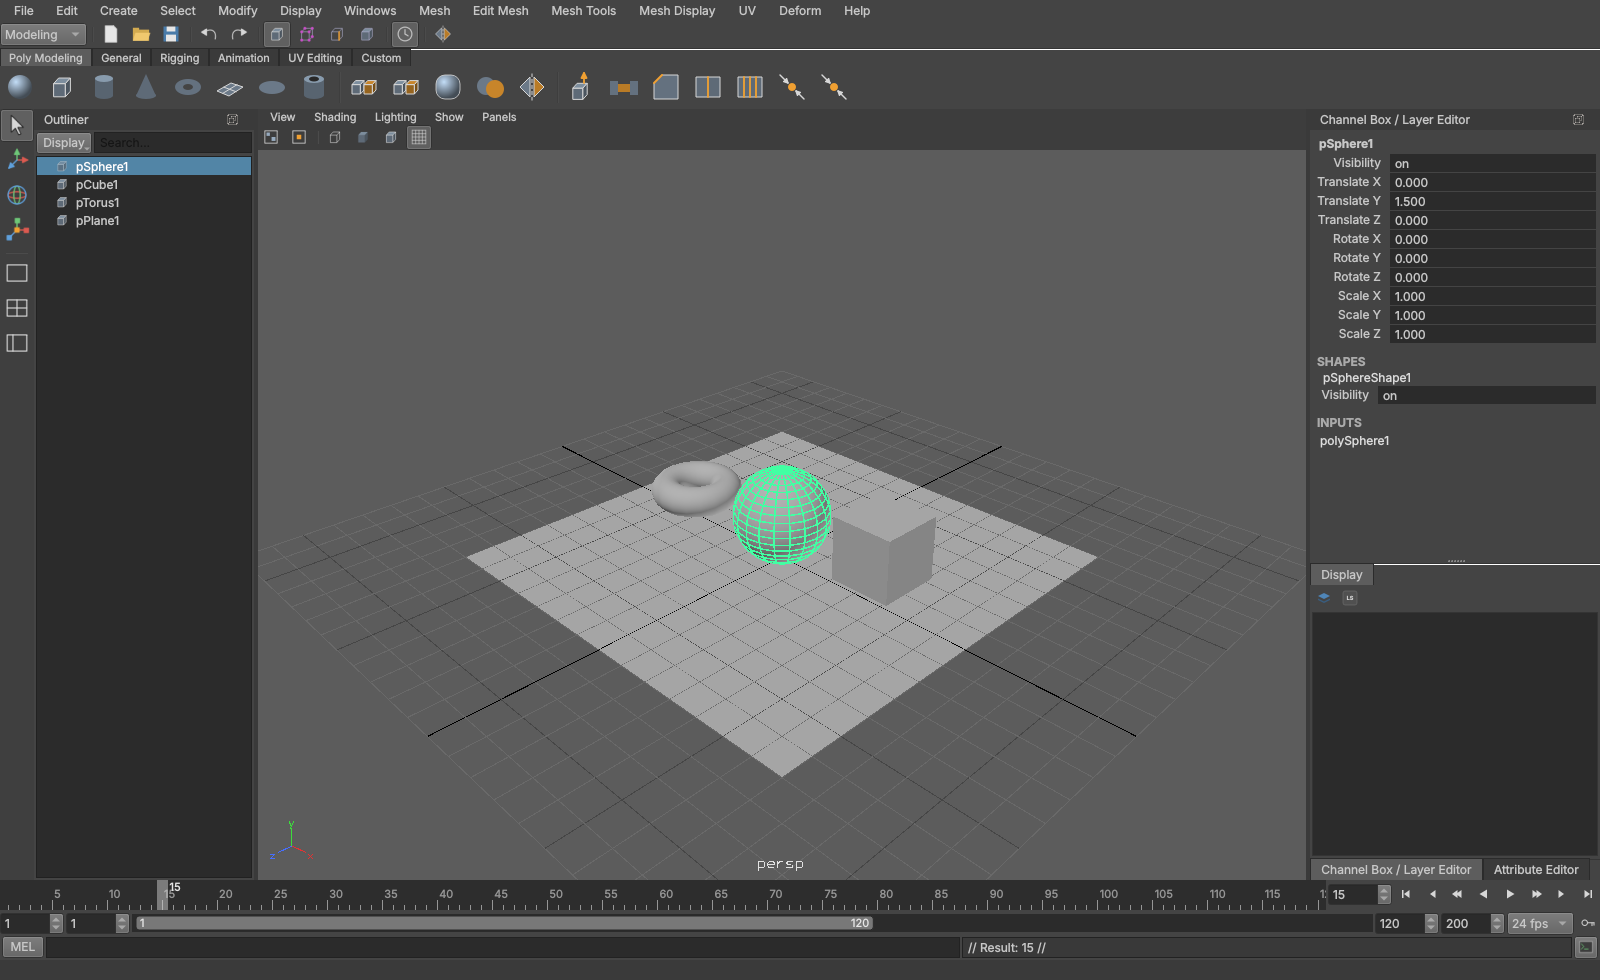
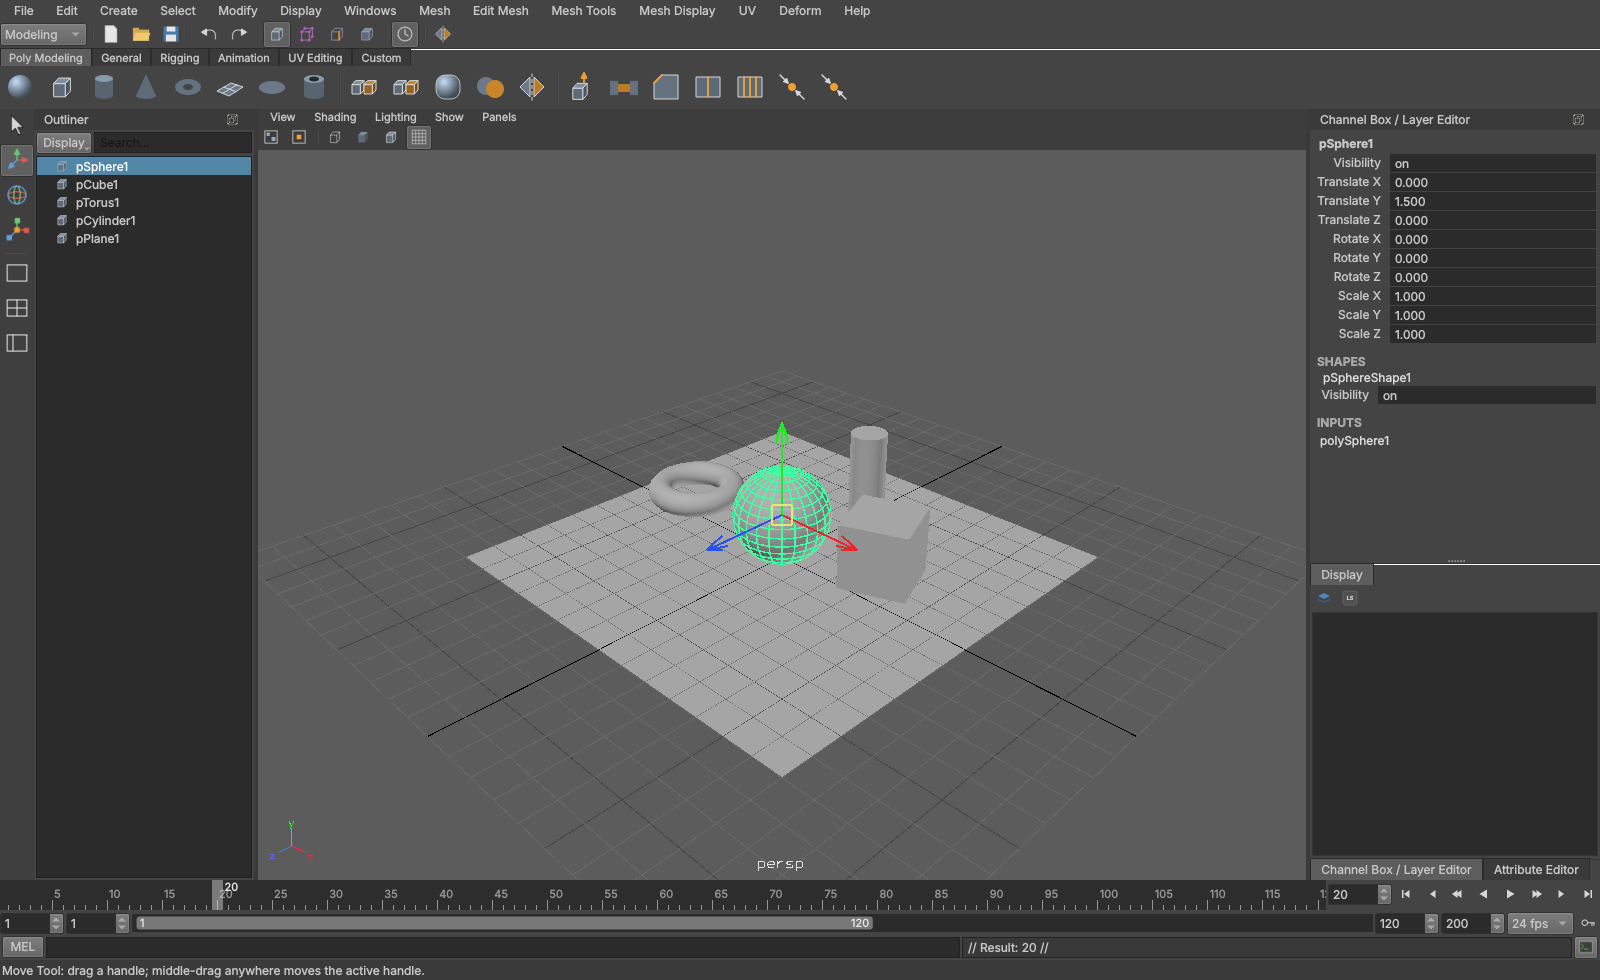
README screenshots, branding, splash and About, Windows build fixes

diff --git a/app/src/widgets.cpp b/app/src/widgets.cpp
@@ -14,6 +14,7 @@
 #include <QJsonArray>
 #include <QJsonDocument>
 #include <QKeyEvent>
+#include <QImage>
 #include <QLabel>
 #include <QListWidget>
 #include <QMouseEvent>
@@ -26,7 +27,48 @@
 #include <QVBoxLayout>
 #include <cmath>
 
+#ifndef AZTEK_VERSION
+#define AZTEK_VERSION "dev"
+#endif
+
 namespace az {
+
+QPixmap splash_pixmap() {
+    QPixmap pm(640, 340);
+    pm.fill(QColor(0, 0, 0));
+    QPainter p(&pm);
+    p.setRenderHint(QPainter::SmoothPixmapTransform);
+    QImage logo(":/aztek-logo.png");
+    QRect r(70, 20, 500, 253);
+    p.drawImage(r, logo);
+    p.setPen(QColor(150, 150, 150));
+    QFont f = p.font();
+    f.setPointSize(9);
+    p.setFont(f);
+    p.drawText(QRect(0, 280, 620, 20), Qt::AlignRight, QString("Version %1").arg(AZTEK_VERSION));
+    return pm;
+}
+
+void show_about(QWidget* parent) {
+    QDialog d(parent);
+    d.setWindowTitle("About Aztek");
+    auto* v = new QVBoxLayout(&d);
+    auto* img = new QLabel(&d);
+    img->setPixmap(splash_pixmap().scaledToWidth(480, Qt::SmoothTransformation));
+    v->addWidget(img);
+    auto* text = new QLabel(QString("Aztek %1<br>Modelling, UVs, rigging and animation.<br>Rust core, Qt interface, Vulkan viewport.<br><br>"
+                                    "<a href=\"https://github.com/srlegrand/AKA-Crest-Aztek\" style=\"color:#7fb4d6\">github.com/srlegrand/AKA-Crest-Aztek</a>")
+                                .arg(AZTEK_VERSION),
+                            &d);
+    text->setOpenExternalLinks(true);
+    text->setTextFormat(Qt::RichText);
+    v->addWidget(text);
+    auto* ok = new QDialogButtonBox(QDialogButtonBox::Ok, &d);
+    QObject::connect(ok, &QDialogButtonBox::accepted, &d, &QDialog::accept);
+    v->addWidget(ok);
+    d.exec();
+}
+
 
 // ---------------------------------------------------------------------------------------------------------------------
 // Option boxes

diff --git a/app/src/mainwindow.cpp b/app/src/mainwindow.cpp
@@ -563,9 +563,7 @@ void MainWindow::build_menu_set(const QString& set) {
         set_menus_.append(m);
     }
     auto* help = new QMenu("Help", this);
-    help->addAction("About Aztek", [this] {
-        QMessageBox::about(this, "About Aztek", "Aztek\nModelling, UVs and rigging.\nRust core, Qt interface, Vulkan viewport.");
-    });
+    help->addAction("About Aztek", [this] { show_about(this); });
     mb->addMenu(help);
     set_menus_.append(help);
     if (hotbox_) hotbox_->deleteLater();
@@ -1102,16 +1100,25 @@ void MainWindow::show_preferences() {
 }
 
 void MainWindow::show_uv_editor() {
-    if (!uv_window_) uv_window_ = new UvEditor(this);
-    uv_window_->setWindowFlag(Qt::Window);
+    if (!uv_window_) {
+        uv_window_ = new UvEditor(this);
+        uv_window_->setWindowFlag(Qt::Window);
+        // Over the right of the main window, as Maya opens its editors over the panels.
+        QRect g = geometry();
+        uv_window_->move(g.x() + g.width() - uv_window_->width() - 340, g.y() + 140);
+    }
     uv_window_->show();
     uv_window_->raise();
     static_cast<UvEditor*>(uv_window_)->refresh();
 }
 
 void MainWindow::show_graph_editor() {
-    if (!graph_window_) graph_window_ = new GraphEditor(this);
-    graph_window_->setWindowFlag(Qt::Window);
+    if (!graph_window_) {
+        graph_window_ = new GraphEditor(this);
+        graph_window_->setWindowFlag(Qt::Window);
+        QRect g = geometry();
+        graph_window_->move(g.x() + (g.width() - graph_window_->width()) / 2, g.y() + g.height() - graph_window_->height() - 140);
+    }
     graph_window_->show();
     graph_window_->raise();
     static_cast<GraphEditor*>(graph_window_)->refresh();

diff --git a/app/src/main.cpp b/app/src/main.cpp
@@ -3,6 +3,9 @@
 #include "mainwindow.h"
 
 #include <QApplication>
+#include <QIcon>
+#include <QSplashScreen>
+#include "widgets.h"
 #include <QCommandLineParser>
 #include <QFile>
 #include <QPalette>
@@ -47,6 +50,8 @@ int main(int argc, char** argv) {
     QApplication app(argc, argv);
     QApplication::setOrganizationName("Aztek");
     QApplication::setApplicationName("Aztek");
+    QApplication::setWindowIcon(QIcon(":/aztek-icon.png"));
+    QGuiApplication::setDesktopFileName("aztek");
     apply_style(app);
 
     QCommandLineParser args;
@@ -59,8 +64,20 @@ int main(int argc, char** argv) {
     args.addPositionalArgument("scene", "Scene to open.");
     args.process(app);
 
+    // The splash while the core and the viewports start, as Maya shows one.
+    QSplashScreen* splash = nullptr;
+    if (!args.isSet(shot)) {
+        splash = new QSplashScreen(az::splash_pixmap());
+        splash->show();
+        splash->showMessage("Starting the core...", Qt::AlignBottom | Qt::AlignLeft, QColor(170, 170, 170));
+        app.processEvents();
+    }
     az::MainWindow w;
     w.show();
+    if (splash) {
+        splash->finish(&w);
+        splash->deleteLater();
+    }
     if (!args.positionalArguments().isEmpty()) w.open_file(args.positionalArguments().first());
     w.run_startup(args.value(script), args.value(shot));
     return app.exec();

diff --git a/app/src/widgets.h b/app/src/widgets.h
@@ -14,7 +14,14 @@ class QLabel;
 class QDoubleSpinBox;
 class QSpinBox;
 
+class QPixmap;
+
 namespace az {
+
+// The logo on a dark panel with the version: the splash screen and the About box.
+QPixmap splash_pixmap();
+void show_about(QWidget* parent);
+
 
 // A command's settings, built from its flags and remembered between sessions.
 class OptionsDialog : public QDialog {

diff --git a/README.md b/README.md
@@ -1,10 +1,42 @@
-# Aztek
+<p align="center"><img src="docs/logo.png" alt="Aztek" width="420"></p>
+
+[![Build](https://github.com/srlegrand/AKA-Crest-Aztek/actions/workflows/build.yml/badge.svg)](https://github.com/srlegrand/AKA-Crest-Aztek/actions/workflows/build.yml)
 
 A modelling, UV, rigging and animation application that behaves like Maya. Rust core (scene graph, commands,
 geometry, Vulkan viewport), Qt Widgets shell in C++, embedded Python with `aztek.cmds` and a `maya.cmds` shim.
 PARITY.md has the behaviour target and status.
 
 ![Aztek](docs/screenshot.png)
+
+## Screens
+
+Four views, Space to toggle:
+
+![Four views](docs/four-view.png)
+
+Component editing with construction history (`polyExtrudeFace1` in the channel box's inputs) and the move manipulator:
+
+![Modelling](docs/modelling.png)
+
+Marking menus on the right button:
+
+![Marking menu](docs/marking-menu.png)
+
+Soft selection (B), falloff shown on the vertices:
+
+![Soft selection](docs/soft-select.png)
+
+UV Editor: automatic projection and layout:
+
+![UV Editor](docs/uv-editor.png)
+
+Graph Editor, with keyed channels in the channel box and key ticks on the time slider:
+
+![Graph Editor](docs/graph-editor.png)
+
+Joints, smooth skin and an RP IK handle:
+
+![Rigging](docs/rigging.png)
 
 ## Build
 
@@ -13,7 +45,7 @@ Linux:
     ./build.sh --deps --run
 
 `--deps` installs the build dependencies (apt, dnf or pacman) and only needs running once; `--run` starts Aztek
-afterwards; `--debug` builds into `build-debug/`. Rust comes from [rustup](https://rustup.rs). An active conda
+afterwards; `--install` puts it in `~/.local` with a menu entry and icon; `--debug` builds into `build-debug/`. Rust comes from [rustup](https://rustup.rs). An active conda
 environment is fine: the script builds against the system Python and ignores conda's libraries.
 
 Windows, from PowerShell or a command prompt:
